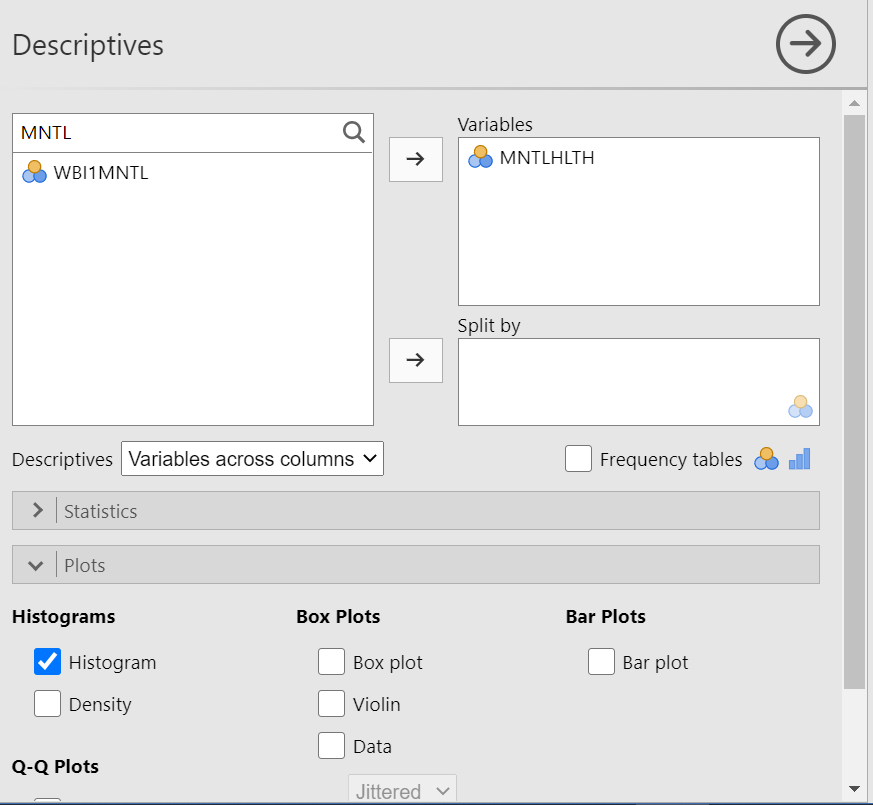
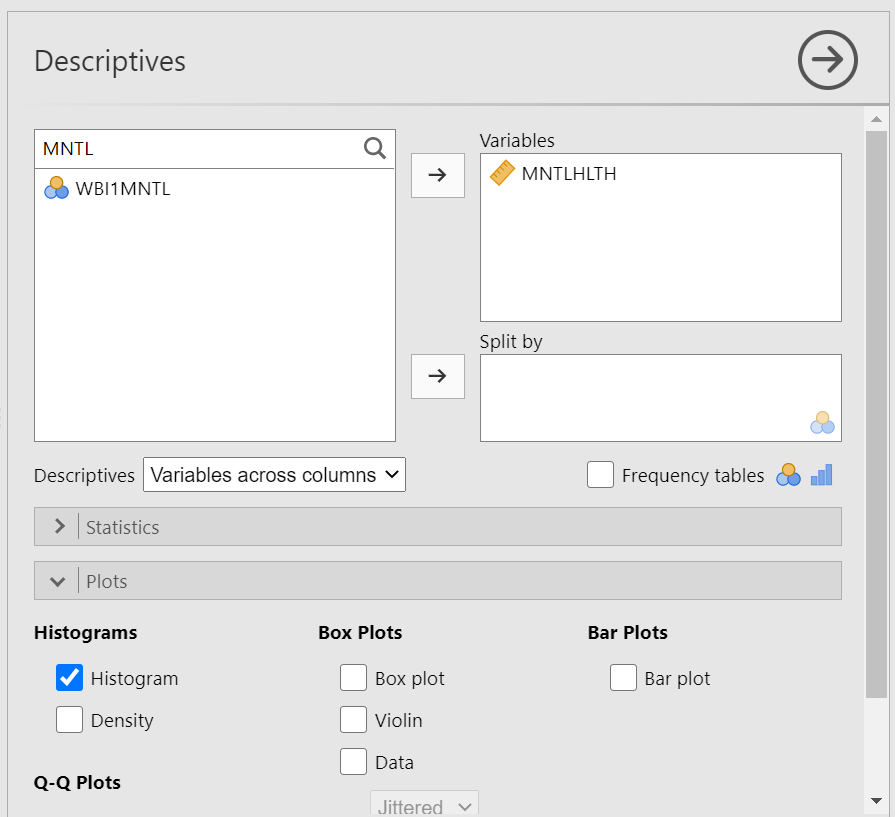
Lab 1 - Graphing - 2023
Resolved Measure type for MNTLHLTH

diff --git a/docs/lab-1-graphing-data.html b/docs/lab-1-graphing-data.html
@@ -1285,7 +1285,6 @@ Here, we will deal with people’s self-reported mental health, <code>MNTLHLTH</
 <p>Let’s plot a histogram for this variable. (Remember to close the Descriptives menu, by clicking on the arrow facing to the right, before you keep going unless you want to run the same analyses on a number of variables.) We want to put our variable of interest - mental health - on the <em>x</em>-axis and frequency for each score on the <em>y</em>-axis. If you will recall, there were a number of options for types of graphs in the sub-menu we used for the bar graph. It is in that sub-menu where we will find the histogram option.
 Under the <span style="color:blue">Analyses</span> tab, choose <span style="color:blue">Exploration</span> and <span style="color:blue">Descriptives</span>. Let’s either use the search function or scroll through the variable list to find <code>MNTLHLTH</code>. Using the arrow or dragging the highlighted variable and dropping it, move <code>MNTLHLTH</code> into the Variables field. Now, click on the <span style="color:blue">Plots</span> ribbon. From here, remember we want a histogram, not a bar graph, so let’s select <span style="color:blue">Histogram</span>…</p>
 <p><img src="img/MNTLHLTHCommands.png" /><!-- --></p>
-<p>(<em>Shrug! I am not sure why the icon representing the scale changes back to “nominal” when the variable is moved to the Variable field.</em>)</p>
 <p>JAMOVI will produce, in the Results panel, the distribution of scores for respondents’ self-reported mental health. (Remember to save your file – using a different name than that you use for your starting file – if you think you may want to look at it again in the future.)</p>
 <p><img src="img/MNTLHLTHHistogram.png" /><!-- --></p>
 </div>
